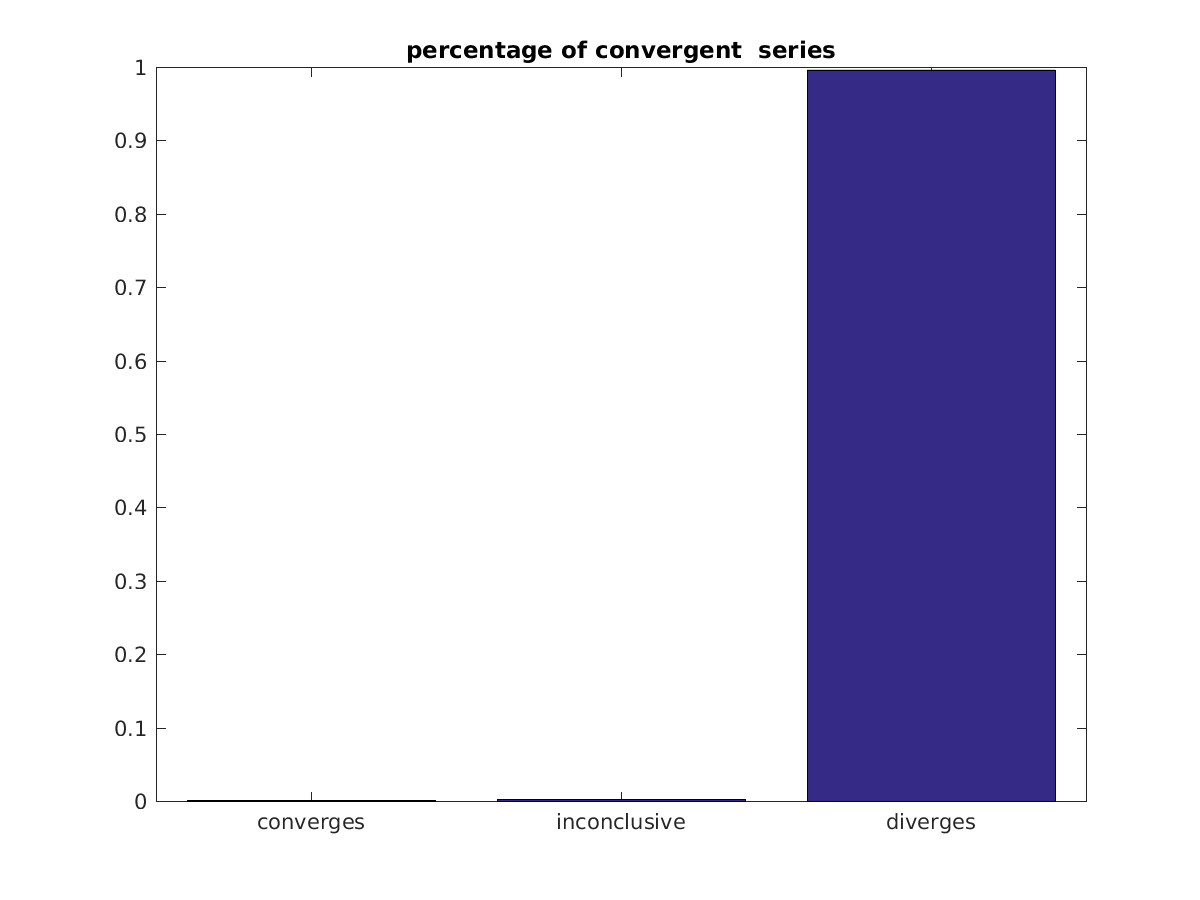
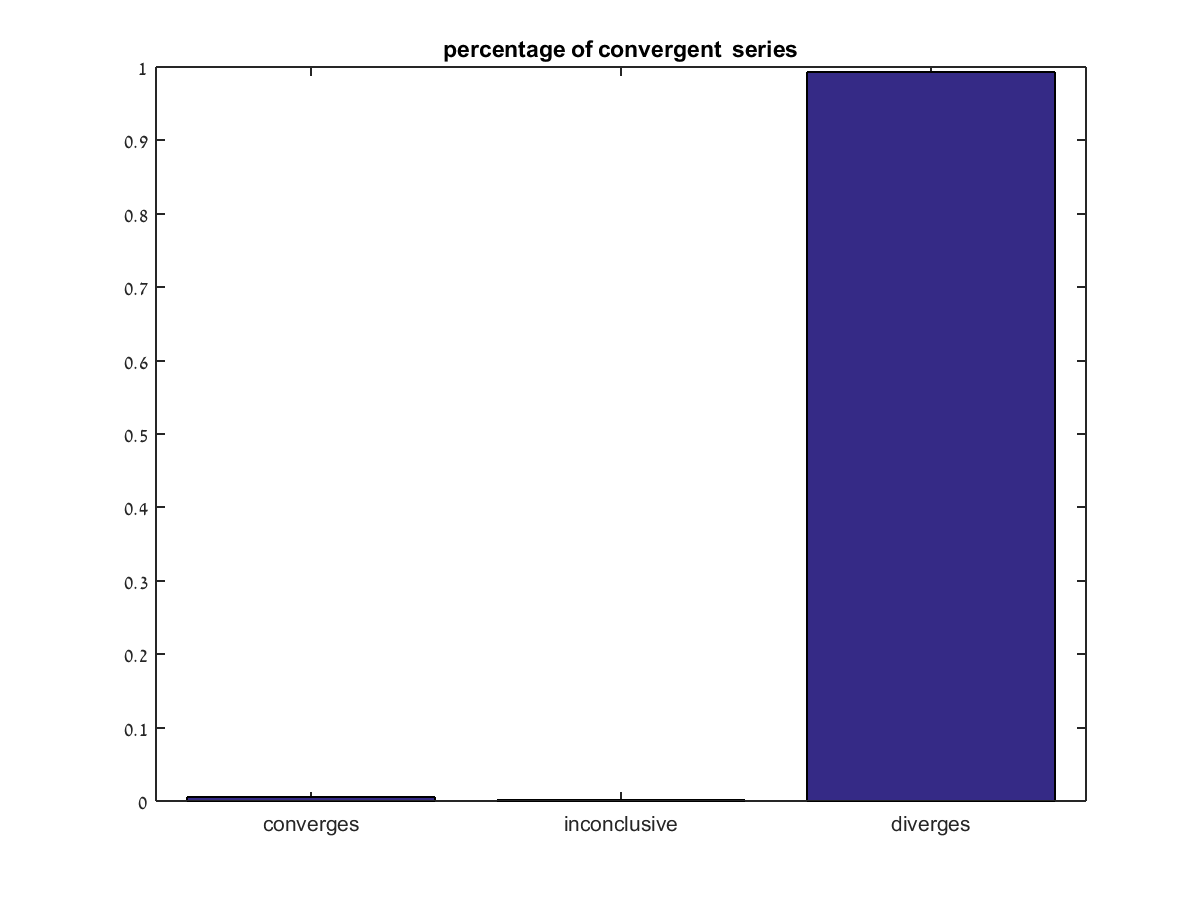
fixed convergence function and added the changed resulting figure  the commit message for your changes. Lines starting

diff --git a/Filtering and summary statistics/getConverges.m b/Filtering and summary statistics/getConverges.m
@@ -1,18 +1,23 @@
-function [ counts ] = getConverges( mat )
+
 %getConverges 
 %   checks whether sequence converges.
 %a sequence is defines as convergin if the last
 % 10 members in the sequence fulfill the ratio test
-nan = isnan(mat);
+load cleaned_data;
+nan = isnan(cleaned_data);
 g= ones(size(nan,1),1);
 nan=[nan g];
 v=[1:size(nan,1)].';
 B=accumarray(v,v,[],@(i) find(nan(i,:)==1,1,'first'));
-last10 = abs(mat(:,B-10:B-1));
-converges = sum(( sum((last10(:,2:10)./last10(:,1:9))<1,2)==9 ));
-mightConverge = sum(( sum((last10(:,2:10)./last10(:,1:9))<=1,2)==9 ));
+last10 = abs(cleaned_data(:,B-10:B-1));
+div=last10(:,2:10)./last10(:,1:9);
+monodec=sum(all(diff(div,2)<0,2));
+mightmonodec=sum(all(diff(div,2)<=0,2));
 
-bar([converges,mightConverge-converges,size(mat,1)-mightConverge]/size(mat,1));
+%converges = sum(( sum((last10(:,2:10)./last10(:,1:9))<1,2)==9 ));
+%mightConverge = sum(( sum((last10(:,2:10)./last10(:,1:9))<=1,2)==9 ));
+
+bar([monodec,mightmonodec-monodec,size(cleaned_data,1)-mightmonodec]/size(cleaned_data,1));
 set(gca,'XTickLabel',{'converges', 'inconclusive', 'diverges'})
 
 
@@ -21,5 +26,4 @@ title('percentage of convergent  series');
 saveas(gcf,'convergence.png');
 
 
-end
 
